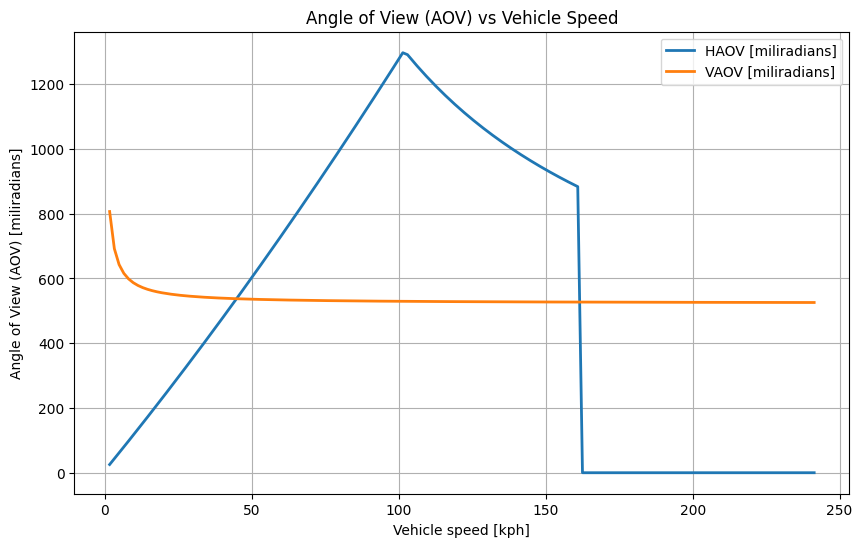
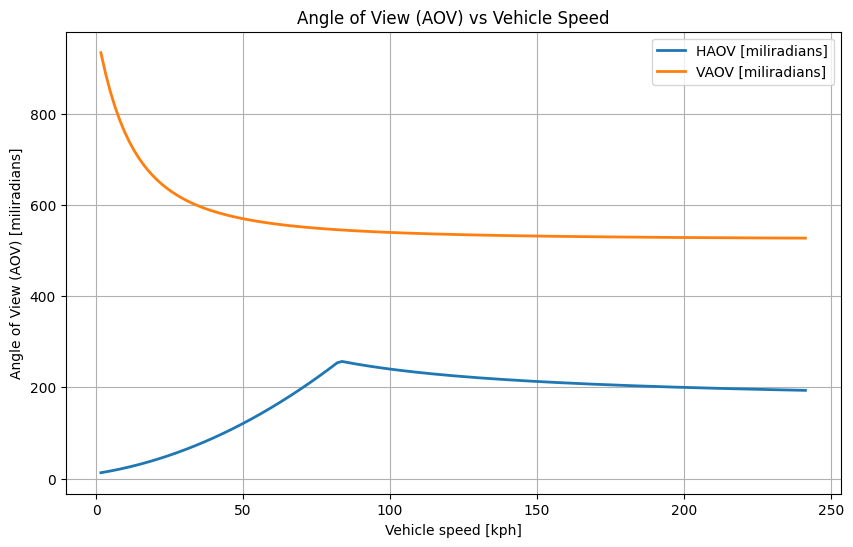
added Selected Object ID

diff --git a/app.py b/app.py
@@ -28,6 +28,7 @@ model = load_detr_model()
 # Variable global para almacenar la imagen de salida de Stereo Inference
 stereo_output_image = None
 image_path_left_original = None
+objects_info = []  # Almacenar los objetos detectados
 
 def save_temp_image(image_array):
     """
@@ -37,7 +38,7 @@ def save_temp_image(image_array):
     cv2.imwrite(temp_file.name, image_array)
     return temp_file.name
 
-# Función `stereo_inference()`
+# Función stereo_inference()
 def stereo_inference(image_path_left=None, image_path_right=None):
     """
     Realiza inferencia estéreo. Soporta tanto rutas de archivo como imágenes cargadas en memoria (numpy.ndarray).
@@ -78,7 +79,7 @@ def stereo_inference(image_path_left=None, image_path_right=None):
 
 # Función para detección de objetos y calcular la distancia usando la disparidad
 def object_detection_with_disparity():
-    global stereo_output_image, image_path_left_original
+    global stereo_output_image, image_path_left_original, objects_info
     if stereo_output_image is None or image_path_left_original is None:
         raise ValueError("No se ha generado una imagen de salida de Stereo Inference o no se ha proporcionado la imagen original.")
 
@@ -140,7 +141,7 @@ def object_detection_with_disparity():
     ids = [obj['id'] for obj in objects_info]
     distances = [obj['distance'] for obj in objects_info]
     fig_detr = plot_detr_results_with_distance(image, bboxes, labels, ids, distances)
-    fig_detr.savefig("object_detection_results_with_distances.png", bbox_inches="tight")
+    fig_detr.savefig("./outputs/object_detection_results_with_distances.png", bbox_inches="tight")
 
     # Crear texto de resultados
     info_text = "Objetos detectados:\n\n"
@@ -151,10 +152,21 @@ def object_detection_with_disparity():
         info_text += f"Coordenadas: ({obj['bbox'][0]}, {obj['bbox'][1]}) a ({obj['bbox'][2]}, {obj['bbox'][3]})\n"
         info_text += f"Distancia promedio: {obj['distance']:.2f} metros\n\n"
 
-    return "object_detection_results_with_distances.png", info_text
+    return "./outputs/object_detection_results_with_distances.png", info_text
 
 # Función para el cálculo de distancia (sin detección de objetos)
-def calculate_distance(mu, t, l, B, turning_car, cog, wheelbase):
+def calculate_distance(mu, t, l, B, turning_car, cog, wheelbase, selected_object_id):
+    global objects_info
+    
+    # Obtener información del objeto seleccionado
+    selected_object = next((obj for obj in objects_info if obj['id'] == selected_object_id), None)
+    if selected_object is None:
+        raise ValueError("El objeto seleccionado no es válido.")
+    
+    object_height = selected_object['height']
+    object_distance = selected_object['distance']
+    
+    # Realizar cálculos utilizando la información del objeto seleccionado
     _, plot_path1, plot_path2, plot_path3, plot_path4 = calculate_lookahead_distance(
         mu=mu,
         t=t,
@@ -163,6 +175,8 @@ def calculate_distance(mu, t, l, B, turning_car, cog, wheelbase):
         cog=cog,
         wheelbase=wheelbase,
         turning_angle=turning_car,
+        object_height=object_height,  # Añadir la altura del objeto
+        object_distance=object_distance,  # Añadir la distancia del objeto
         image_path=None  # Si necesitas una imagen de referencia, pásala aquí
     )
     return (
@@ -233,7 +247,6 @@ with gr.Blocks(theme=seafoam) as demo:
             width: 60%;
             border-radius: 10px;
             box-shadow: 0 0 10px rgba(0, 0, 0, 0.1);
-            margin-top: 20px;
             text-align: center;
         }
         
@@ -269,13 +282,13 @@ with gr.Blocks(theme=seafoam) as demo:
     </style>
     """)
 
-    with gr.Tab("Inicio"):
+    with gr.Tab("Home"):
         gr.HTML("""
         <div class="title-text">
             Estimation of safe navigation speed for autonomous vehicles
         </div>
                 
-        <div style="display: flex; justify-content: center; align-items: center;">
+        <div style="display: flex; justify-content: center; align-items: center; margin-top:10px">
             <img src="https://i.ibb.co/sJrp7P4/portada.png" class="welcome-image"/>
         </div>
         """)
@@ -291,9 +304,9 @@ with gr.Blocks(theme=seafoam) as demo:
 
     with gr.Tab("Object Detection"):
         gr.Markdown("## Object Detection")
+        run_button = gr.Button("Run Detection")
         detect_output_image = gr.Image(label="Object Detection Output Image", visible=True)
         detect_output_text = gr.Textbox(label="Detected Objects Info", lines=10, interactive=False)
-        run_button = gr.Button("Run Detection")
         run_button.click(object_detection_with_disparity, outputs=[detect_output_image, detect_output_text])
 
     with gr.Tab("Calculate Distance"):
@@ -308,6 +321,7 @@ with gr.Blocks(theme=seafoam) as demo:
                 turning_car = gr.Slider(0.0, 360.0, value=180.0, step=1.0, label="Turning Car [°]")
                 cog = gr.Slider(0.0, 2.0, value=1.0, step=0.01, label="Height of Center Gravity (COG) [m]")
                 wheelbase = gr.Slider(0.0, 3.0, value=1.5, step=0.01, label="Width of Wheelbase [m]")
+                selected_object_id = gr.Number(value=1, label="Selected Object ID", precision=0, interactive=True)
 
         # Organizar las gráficas en dos filas
         with gr.Row():
@@ -319,6 +333,6 @@ with gr.Blocks(theme=seafoam) as demo:
                 distance_plot4 = gr.Image(type="filepath", label="Campo de visión instantaneo para los obstáculos", visible=False)
                 
         run_button = gr.Button("Calculate Distance")
-        run_button.click(calculate_distance, inputs=[mu, t, l, B, turning_car, cog, wheelbase], outputs=[distance_plot1, distance_plot2, distance_plot3, distance_plot4])
+        run_button.click(calculate_distance, inputs=[mu, t, l, B, turning_car, cog, wheelbase, selected_object_id], outputs=[distance_plot1, distance_plot2, distance_plot3, distance_plot4])
 
-demo.launch()
+demo.launch(share=True)

diff --git a/lookahead_calculator.py b/lookahead_calculator.py
@@ -14,7 +14,7 @@ output_directory = 'outputs'
 if not os.path.exists(output_directory):
     os.makedirs(output_directory)
 
-def calculate_lookahead_distance(mu, t, l, B, cog, wheelbase, turning_angle, image_path=None):
+def calculate_lookahead_distance(mu, t, l, B, cog, wheelbase, turning_angle, object_height=None, object_distance=None, image_path=None):
     # Parámetros fijos para el modelo (algunos se han convertido en parámetros de la función)
     g = 9.81
     a = -9  # Desaceleración durante el frenado [m/s^2]
@@ -68,13 +68,13 @@ def calculate_lookahead_distance(mu, t, l, B, cog, wheelbase, turning_angle, ima
 
     # Variables y cálculos para la segunda gráfica (AOV)
     HFOV = np.zeros_like(v_mtps)
-    hc = 2  # Altura del centro de gravedad [m]
+    hc = cog  # Altura del centro de gravedad [m]
     thetaSlope = np.deg2rad(15)  # Ángulo de la pendiente
     thetaMin = np.arctan(hc / d_look_stop)
     thetaMax = np.arctan(hc / d_offset)
     VFOV = 2 * thetaSlope + np.minimum(thetaMin, thetaMax)
 
-    for v in range(1, 101):
+    for v in range(1, 151):
         HFOV[v - 1] = d_look_stop[v - 1] / turning[v - 1]
 
     # Generar la segunda gráfica (Angle of View)
@@ -107,9 +107,12 @@ def calculate_lookahead_distance(mu, t, l, B, cog, wheelbase, turning_angle, ima
     plt.savefig(plot_path3, bbox_inches="tight")
     plt.close()
 
-    # Gráfico para obstáculos positivos con diferentes alturas
+    # Gráfico de IFOV para obstáculos positivos con diferentes alturas
     stoppingDistance = np.arange(1, 1001)
-    hp_values = np.arange(0.1, 1.1, 0.1)
+    if object_height is not None:
+        hp_values = np.array([object_height])  # Usar la altura del objeto si se proporciona
+    else:
+        hp_values = np.arange(0.1, 1.1, 0.1)  # Usar valores por defecto si no se proporciona la altura del objeto
     IFOVp = np.zeros((len(hp_values), len(stoppingDistance)))
 
     for i, hp in enumerate(hp_values):
